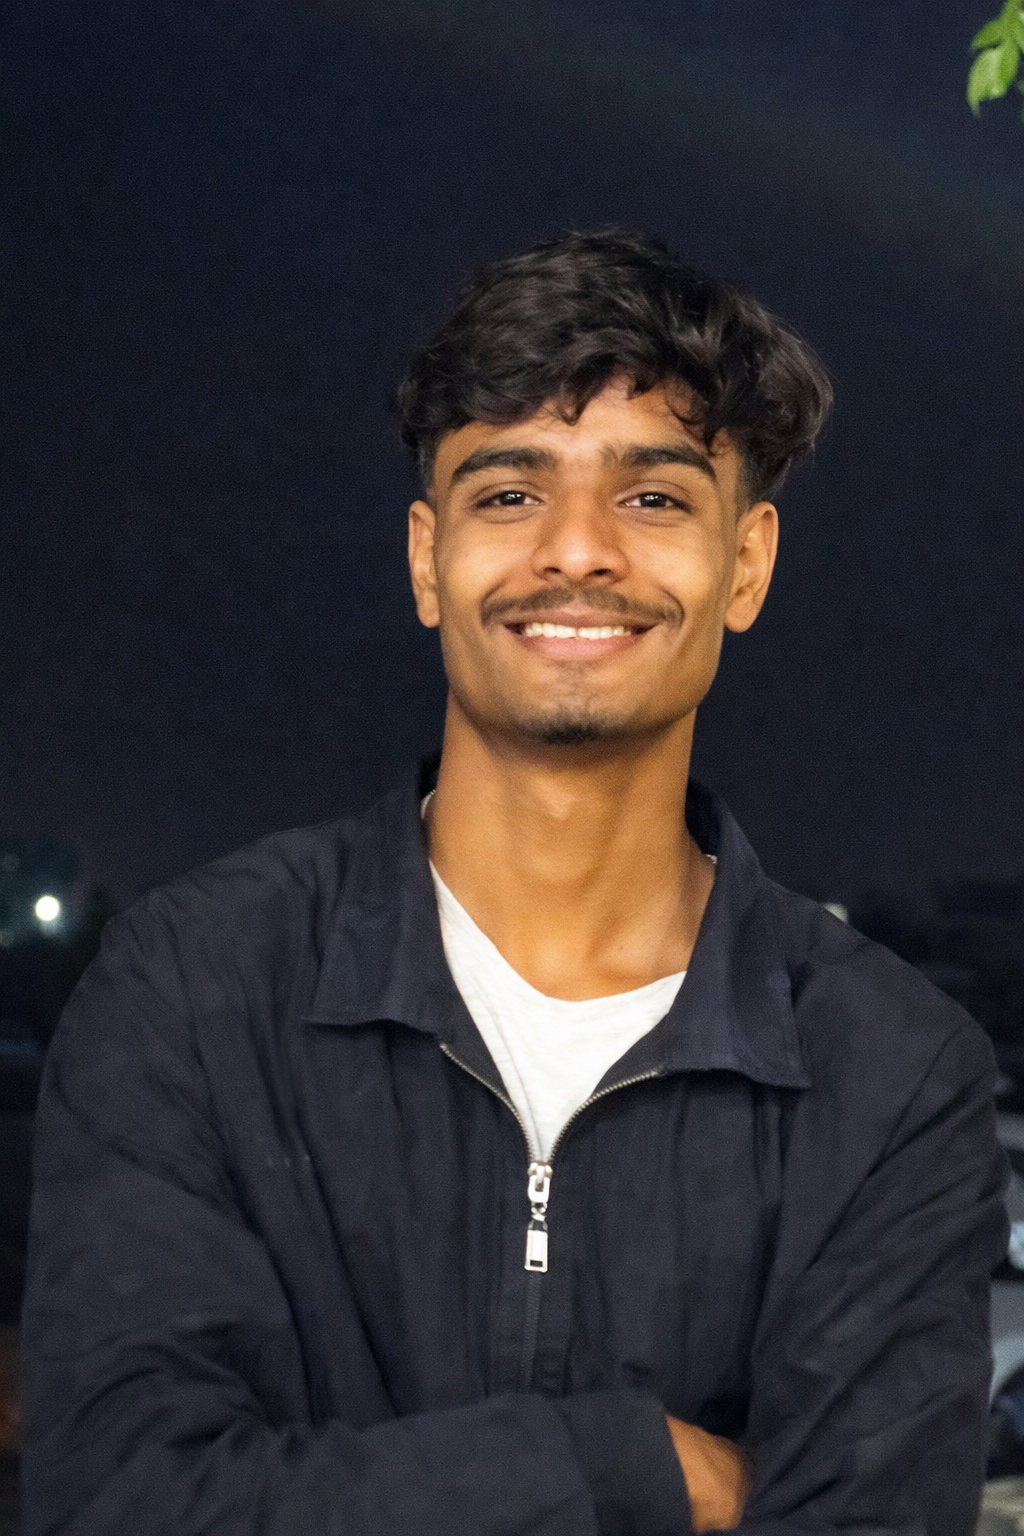
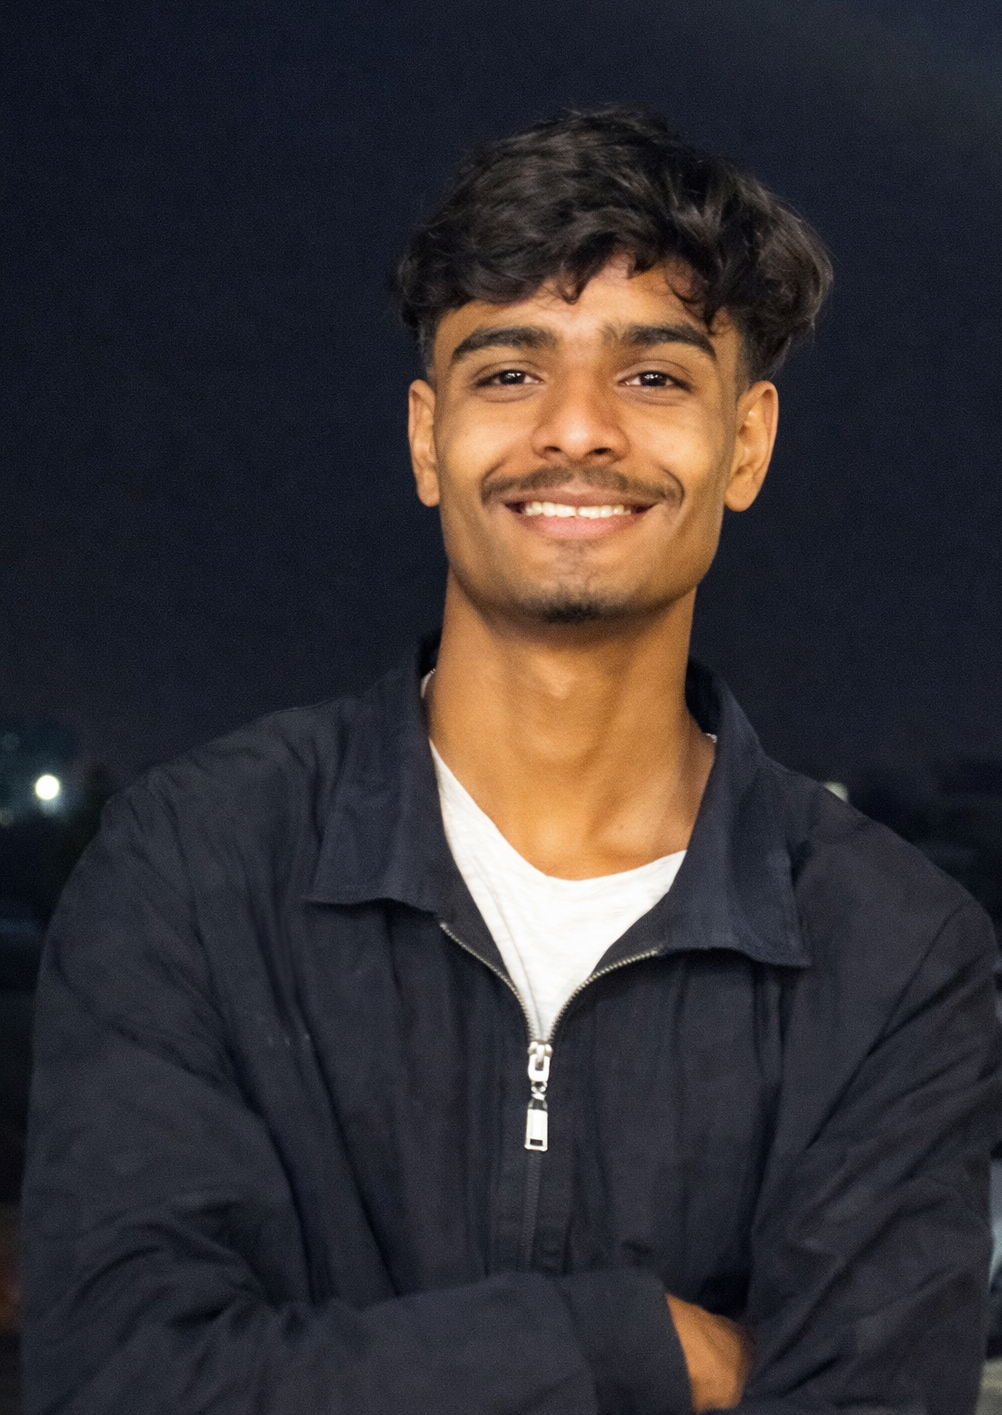
edited some componants

diff --git a/src/pages/componants/ProjectCard.jsx b/src/pages/componants/ProjectCard.jsx
@@ -19,7 +19,7 @@ function ProjectCard({ title, description, imageUrl, technologies, githubUrl, li
       <div className="p-5 flex flex-col gap-3">
         <h2 className="text-xl text-gray-800 font-bold">{title}</h2>
 
-        <p className="md:text-lg text-md text-gray-600 line-clamp-3">{description}</p>
+        <p className="md:text-lg text-md text-gray-600 line-clamp-3 min-h-10 max-h-50">{description}</p>
 
         {/* Technologies */}
         <div className="flex flex-wrap gap-2 mt-2">

diff --git a/src/pages/Projects.jsx b/src/pages/Projects.jsx
@@ -43,7 +43,7 @@ function Projects() {
         Here are some of my recent projects that showcase my skills and
         experience
       </p>
-      <div className="grid lg:grid-cols-2 xl:grid-cols-3 justify-items-center px-15 md:px-2">
+      <div className="grid lg:grid-cols-2 xl:grid-cols-3 justify-items-center px-10 md:px-2">
         {ProjectDetail.map((project, index) => (
           <ProjectCard
             key={index}

diff --git a/src/pages/About.jsx b/src/pages/About.jsx
@@ -20,7 +20,7 @@ function About() {
             <img
               src="src\assets\myImage.png"
               alt="About"
-              className="w-full h-auto rounded-lg object-cover hover:scale-105 transition-transform duration-500"
+              className="w-full max-h-150 rounded-lg object-cover hover:scale-105 transition-transform duration-500"
             />
           </div>
 
